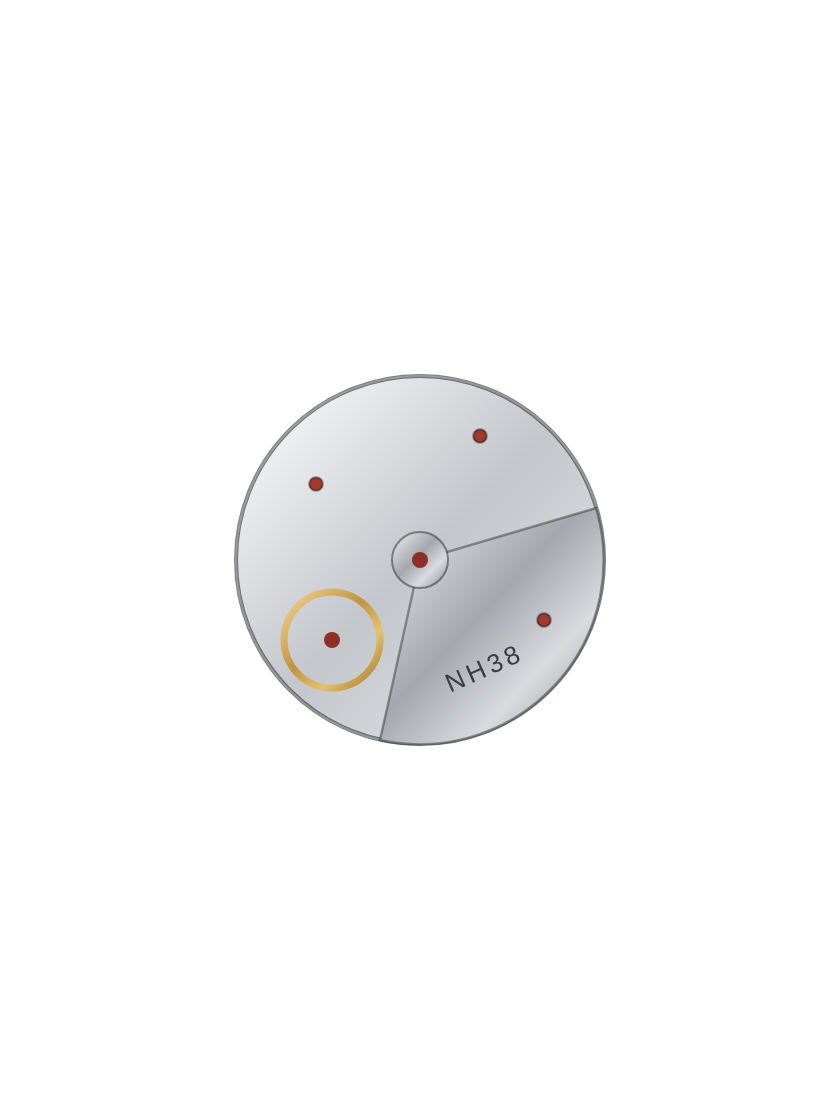
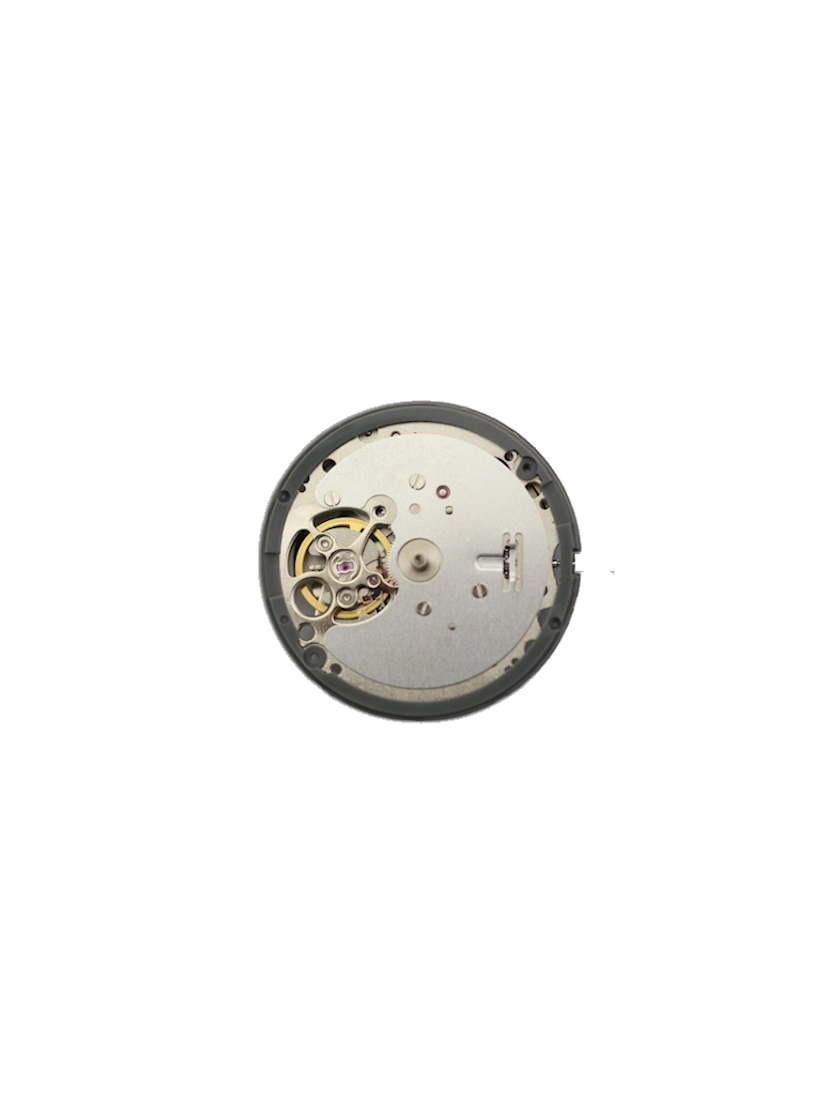
Added NH38, nomods-royaloak-gold 37mm, dialmakershop-hammered-green-dial

Changed region(s): [[0.2786, 0.3125, 0.7429, 0.6875]]

diff --git a/js/parts-data.js b/js/parts-data.js
@@ -63,9 +63,10 @@ var LAYERS = {
 var PARTS = {
 
   case: [
-    { id: "case-oct-rose",    name: "Octagon · rose gold", vendor: "ACHUTA stock", url: "",
-      tags: ["Octagon", "Rose gold"], img: "parts/case-oct-rose.png",
-      note: "Octagonal bezel · 8 screws" },
+    { id: "case-royal-oak-rose",    name: "Royal Oak · rose gold", vendor: "nomods", url: "",
+      tags: ["Royal Oak", "Rose gold"], img: "parts/case-royal-oak-rose.png",
+      note: "Octagonal bezel · 37mm lug-to-lug",
+      accepts: { mov_brand: {text: "nh"}, bracelet: {text: "royal-oak"} } },
     { id: "case-oct-steel",   name: "Octagon · steel", vendor: "ACHUTA stock", url: "",
       tags: ["Octagon", "Steel"], img: "parts/case-oct-steel.png",
       note: "Octagonal bezel · 8 screws" },
@@ -83,19 +84,23 @@ var PARTS = {
     { id: "mov-nh35", name: "Seiko NH35", vendor: "Seiko · TMI", url: "",
       tags: ["Date", "Hacking"], img: "parts/mov-nh35.png",
       windows: ["date"], bps: 6,
-      spec: "Automatic · date · 21,600 vph · sweeping seconds" },
+      spec: "Automatic · date · 21,600 vph · sweeping seconds", 
+      specs: { mov_brand: "nh" } },
     { id: "mov-nh36", name: "Seiko NH36", vendor: "Seiko · TMI", url: "",
       tags: ["Day-date", "Hacking"], img: "parts/mov-nh36.png",
       windows: ["daydate"], bps: 6,
-      spec: "Automatic · day-date · 21,600 vph · sweeping seconds" },
+      spec: "Automatic · day-date · 21,600 vph · sweeping seconds",
+      specs: { mov_brand: "nh" } },
     { id: "mov-nh38", name: "Seiko NH38", vendor: "Seiko · TMI", url: "",
       tags: ["No date", "Hacking"], img: "parts/mov-nh38.png",
       windows: [], bps: 6,
-      spec: "Automatic · no date · clean dial · sweeping seconds" },
+      spec: "Automatic · no date · clean dial · sweeping seconds",
+      specs: { mov_brand: "nh" } },
     { id: "mov-nh34", name: "Seiko NH34 GMT", vendor: "Seiko · TMI", url: "",
       tags: ["GMT", "Date"], img: "parts/mov-nh34.png",
       windows: ["date", "gmt"], bps: 6,
-      spec: "Automatic · true GMT · date · sweeping seconds" }
+      spec: "Automatic · true GMT · date · sweeping seconds",
+      specs: { mov_brand: "nh" } }
   ],
 
   dial: [
@@ -110,7 +115,9 @@ var PARTS = {
     { id: "dial-fume",   name: "Charcoal fumé", vendor: "ACHUTA stock", url: "",
       tags: ["Dark", "Sunburst"], img: "parts/dial-fume.png", note: "ø 28.5 mm", specs: { dial_mm: 28.5 } },
     { id: "dial-ivory",  name: "Ivory matte", vendor: "ACHUTA stock", url: "",
-      tags: ["Light", "Matte"], img: "parts/dial-ivory.png", note: "ø 31 mm", specs: { dial_mm: 31 } }
+      tags: ["Light", "Matte"], img: "parts/dial-ivory.png", note: "ø 31 mm", specs: { dial_mm: 31 } },
+    { id: "dial-openheart-hammered-green",  name: "Open heart Hammered Pattern - Green", vendor: "dialmaker.shop", url: "",
+      tags: ["Open Heart", "Textured"], img: "parts/dial-openheart-hammered-green.png", note: "ø 28.5 mm", specs: { dial_mm: 28.5 } }
   ],
 
   handset: [
@@ -164,7 +171,8 @@ var PARTS = {
 
   band: [
     { id: "band-bracelet-rose",  name: "Bracelet · rose gold", vendor: "ACHUTA stock", url: "",
-      tags: ["Bracelet", "Rose gold"], img: "parts/band-bracelet-rose.png" },
+      tags: ["Bracelet", "Rose gold"], img: "parts/band-bracelet-royaloak-rose.png", 
+      specs: {bracelet: "royal-oak"} },
     { id: "band-bracelet-steel", name: "Bracelet · steel", vendor: "ACHUTA stock", url: "",
       tags: ["Bracelet", "Steel"], img: "parts/band-bracelet-steel.png" },
     { id: "band-bracelet-gold",  name: "Bracelet · yellow gold", vendor: "ACHUTA stock", url: "",